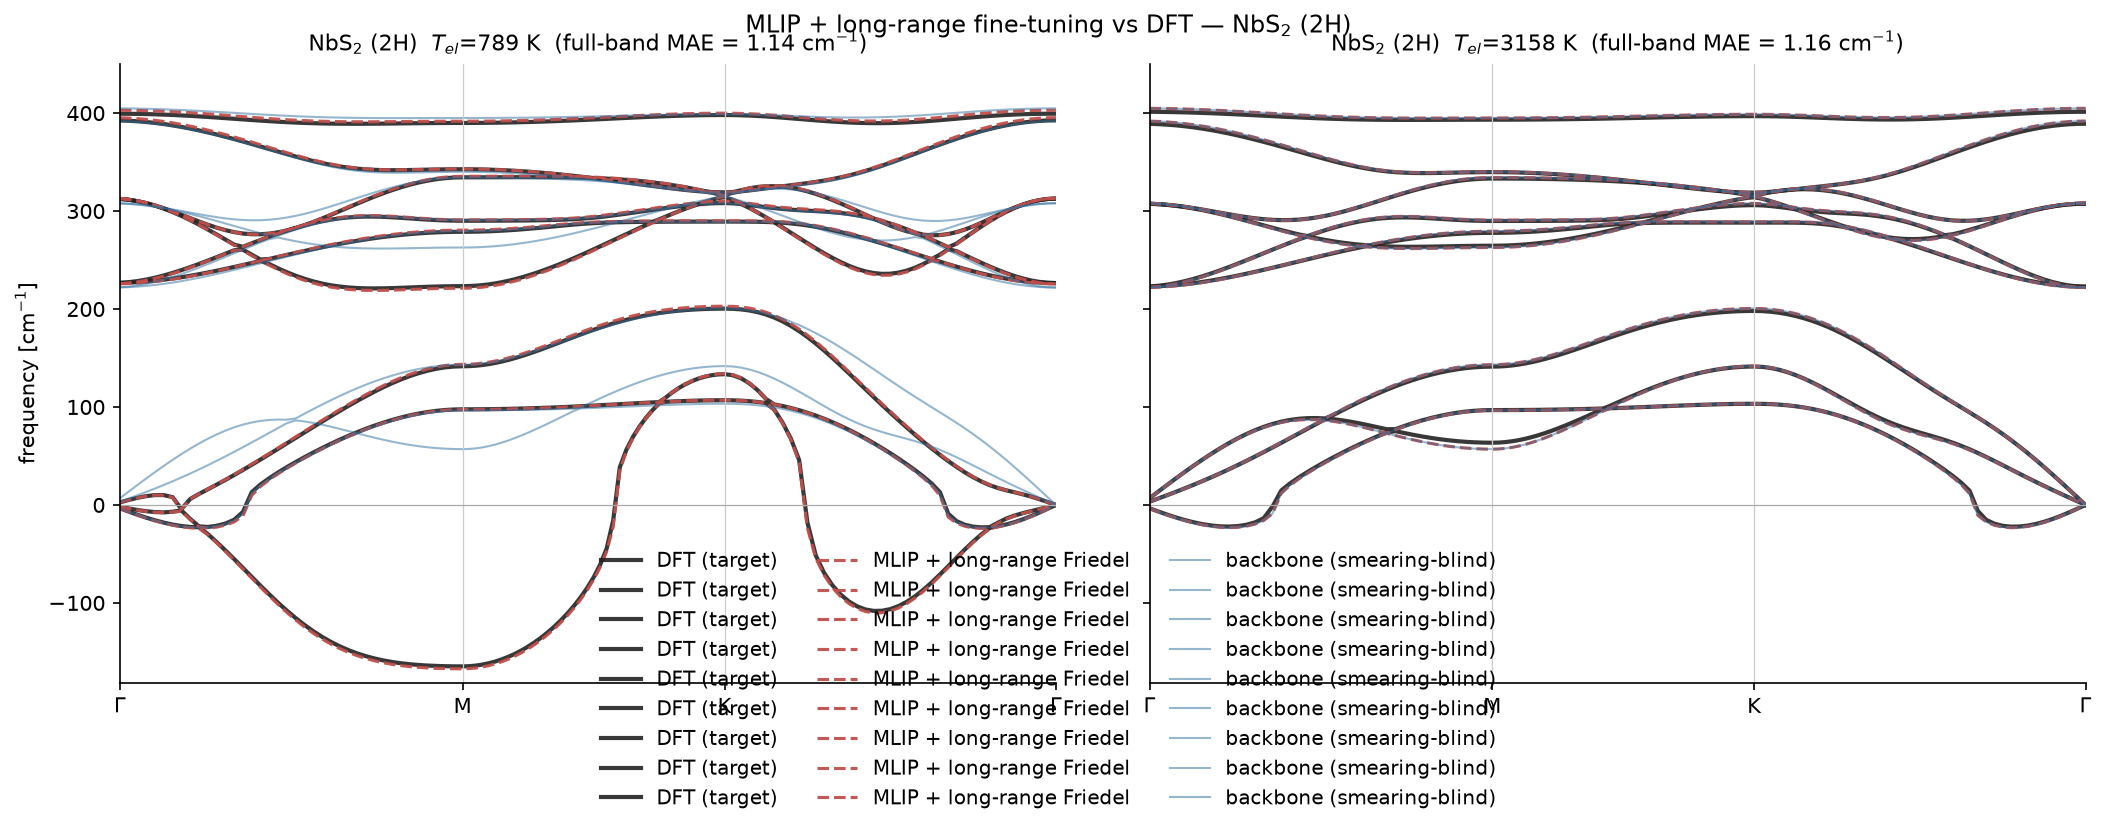
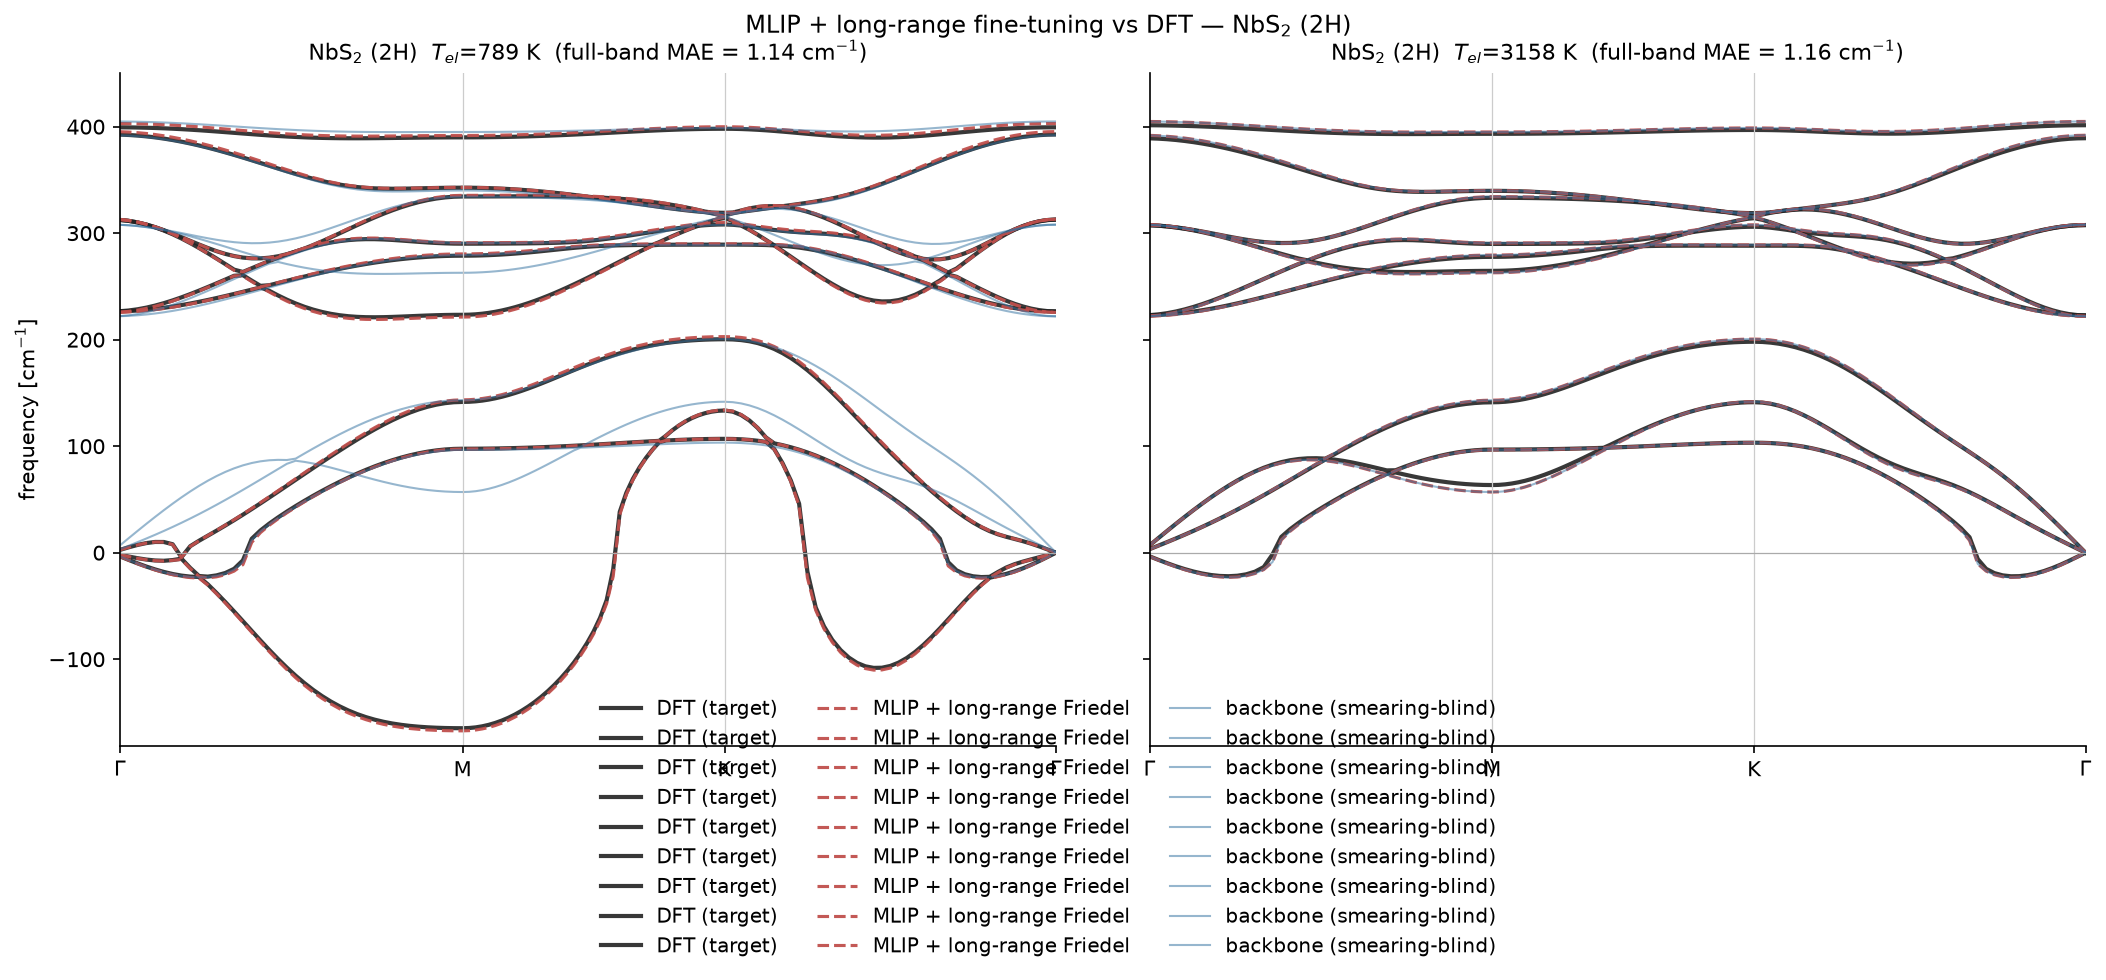
figures v3: increased height + bottom margin (legend clear of x-labels); added graphene to deploy loop (auto-ylim, no crop)
Deploy figures: height 5.5->6.5, bottom margin 0.18->0.24. spectra_E: height 9.2->10.2,
bottom 0.17->0.20. Graphene now in deploy loop (was missing -> stale cropped figure).
All deploy figures use auto-ylim from data (no manual cropping).

diff --git a/scripts/smearing_kink/plot_phonon_spectra.py b/scripts/smearing_kink/plot_phonon_spectra.py
@@ -88,7 +88,7 @@ def plot_E():
     ]
     cmap = plt.cm.Blues
     n = 4
-    fig, axes = plt.subplots(2, 2, figsize=(12.5, 9.2))
+    fig, axes = plt.subplots(2, 2, figsize=(12.5, 10.2))
     for ax, (mat, ylim, files) in zip(axes.flat, mats):
         tick_x = None
         for i, (dg, yml) in enumerate(files):
@@ -115,7 +115,7 @@ def plot_E():
                frameon=False, fontsize=10, title="degauss (Ry) — darker = sharper Fermi surface")
     fig.suptitle("(E)-channel: phonon dispersion vs electronic smearing  (Kohn soft mode melts with T$_{el}$=degauss×157888 K)",
                  fontsize=11.5, y=0.99)
-    fig.subplots_adjust(left=0.07, bottom=0.17, right=0.97, top=0.93, hspace=0.30, wspace=0.13)
+    fig.subplots_adjust(left=0.07, bottom=0.20, right=0.97, top=0.93, hspace=0.32, wspace=0.13)
     out = SK / "spectra_E_smearing.png"
     fig.savefig(out, dpi=150, bbox_inches="tight"); print("wrote", out)
 
@@ -266,7 +266,7 @@ def plot_deploy_vs_dft(mat="NbSe2", label=None, ylim=None):
     tick_x = [x[0], x[seg_len - 1], x[2 * seg_len - 1], x[-1]]
     Ts = [int(t) for t in d["tel"]]
     lab = label or mat
-    fig, axes = plt.subplots(1, len(Ts), figsize=(7.2 * len(Ts), 5.5), sharey=True)
+    fig, axes = plt.subplots(1, len(Ts), figsize=(7.2 * len(Ts), 6.5), sharey=True)
     if len(Ts) == 1:
         axes = [axes]
     for ax, T in zip(axes, Ts):
@@ -294,7 +294,7 @@ def plot_deploy_vs_dft(mat="NbSe2", label=None, ylim=None):
     fig.legend(handles, labels, loc="lower center", ncol=3, bbox_to_anchor=(0.5, 0.005),
                frameon=False, fontsize=9.5)
     fig.suptitle(f"MLIP + long-range fine-tuning vs DFT — {lab}", fontsize=11.5, y=0.99)
-    fig.subplots_adjust(left=0.07, bottom=0.18, right=0.98, top=0.93, wspace=0.10)
+    fig.subplots_adjust(left=0.07, bottom=0.24, right=0.98, top=0.93, wspace=0.10)
     out = SK / f"deploy_vs_dft_{mat}.png"
     fig.savefig(out, dpi=150, bbox_inches="tight"); print("wrote", out)
 
@@ -338,6 +338,7 @@ if __name__ == "__main__":
     if which in ("deploy", "all"):
         for mat, lab in [("NbSe2", "NbSe$_2$ (2H)"), ("2H-TaSe2", "2H-TaSe$_2$ (2H)"),
                          ("2H-TaS2", "2H-TaS$_2$ (2H)"), ("NbS2", "NbS$_2$ (2H)"),
-                         ("1T-VSe2", "1T-VSe$_2$ (1T, sharp-melting)")]:
+                         ("1T-VSe2", "1T-VSe$_2$ (1T)"),
+                         ("graphene", "graphene (K cusp)")]:
             plot_deploy_vs_dft(mat, lab)
     if which in ("grL", "all"): plot_graphene_L()
